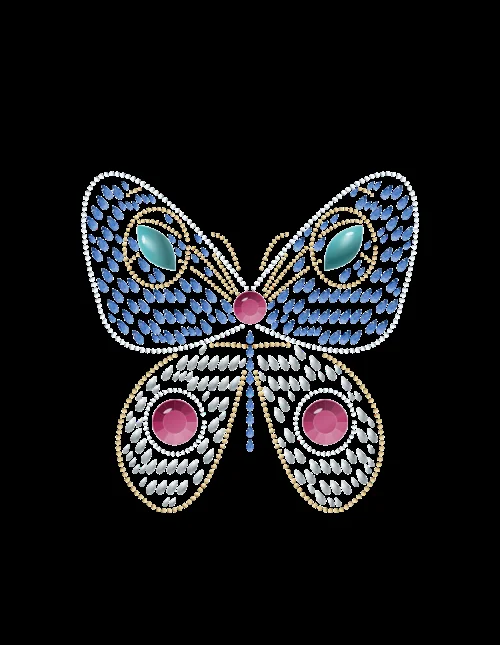
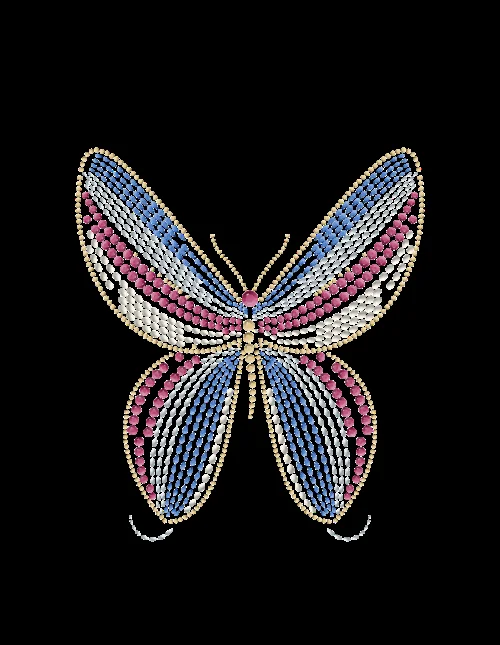
Redraw butterfly owl and peacock with flowing gem strokes and animal details

Changed region(s): [[0.15, 0.2171, 0.87, 0.8372]]

diff --git a/peacock.html b/peacock.html
@@ -6,7 +6,7 @@ const materials=[
  ['白水晶','#e1ecf5','round','圆形明亮式'],['乳白欧泊','#efe8d5','oval','椭圆弧面'],['月光石','#cad9df','pear','水滴弧面'],['蓝宝石','#164eab','step','长方阶梯式'],['黄水晶','#e5af2d','step','长方阶梯式'],['祖母绿','#087c59','ovalcut','椭圆刻面'],['粉碧玺','#d58a92','triangle','三角刻面'],['黄水晶','#e4b52e','heart','心形刻面'],['绿松石','#30a8af','marquise','马眼弧面'],['红宝石','#a91d55','round','圆形明亮式'],['蓝宝石','#205bb2','pear','水滴刻面'],['香槟水晶','#d4b36e','round','圆形明亮式']];
 const gems=[],IW=900,IH=1200;let selected=0,preview=false,zoom=1,pan={x:0,y:0},moving=false,W=0,H=0,fit=1,hover=0;
 function vertices(shape){let v=[];if(shape==='step')return[[-.72,-1],[.72,-1],[1,-.72],[1,.72],[.72,1],[-.72,1],[-1,.72],[-1,-.72]];if(shape==='triangle')return[[-1,-.65],[1,-.65],[0,1]];for(let i=0;i<48;i++){let t=i/48*Math.PI*2;if(shape==='heart')v.push([Math.pow(Math.sin(t),3),-(13*Math.cos(t)-5*Math.cos(2*t)-2*Math.cos(3*t)-Math.cos(4*t))/17]);else if(shape==='pear')v.push([Math.sin(t)*(.74+.26*Math.cos(t)),Math.cos(t)]);else if(shape==='marquise')v.push([Math.sin(t)*Math.abs(Math.sin(t)),Math.cos(t)]);else v.push([Math.sin(t),Math.cos(t)])}return v}
-const shapes=materials.map(m=>vertices(m[2]));
+materials.push(['黑曜石','#151b25','round','圆形刻面']);const shapes=materials.map(m=>vertices(m[2]));
 function path(v,s=1){const p=new Path2D();v.forEach(([x,y],i)=>i?p.lineTo(x*s,y*s):p.moveTo(x*s,y*s));p.closePath();return p}
 const paths=shapes.map(v=>path(v));
 function add(x,y,size,c,angle=0){const ratio={round:1,oval:.67,pear:.61,step:.78,ovalcut:.65,triangle:1,heart:1,marquise:.48}[materials[c][2]],rx=size*ratio/2,ry=size/2,a=angle*Math.PI/180;let ca=Math.cos(a),sa=Math.sin(a);const v=shapes[c].map(([u,v])=>[x+u*rx*ca-v*ry*sa,y+u*rx*sa+v*ry*ca]);let b=[Math.min(...v.map(p=>p[0])),Math.min(...v.map(p=>p[1])),Math.max(...v.map(p=>p[0])),Math.max(...v.map(p=>p[1]))];
@@ -16,22 +16,36 @@ function curve(points,size,c,spacing=size+2){let carry=0;for(let k=1;k<points.le
 function bez(p,n=100){let out=[];for(let i=0;i<=n;i++){let t=i/n,u=1-t;out.push([u*u*u*p[0][0]+3*u*u*t*p[1][0]+3*u*t*t*p[2][0]+t*t*t*p[3][0],u*u*u*p[0][1]+3*u*u*t*p[1][1]+3*u*t*t*p[2][1]+t*t*t*p[3][1]])}return out}
 function inside(x,y,poly){let on=false;for(let i=0,j=poly.length-1;i<poly.length;j=i++){let a=poly[i],b=poly[j];if((a[1]>y)!=(b[1]>y)&&x<(b[0]-a[0])*(y-a[1])/(b[1]-a[1])+a[0])on=!on}return on}
 
-function ellipse(cx,cy,rx,ry,n=120,angle=0){let p=[],a=angle*Math.PI/180;for(let i=0;i<=n;i++){let t=i/n*Math.PI*2,x=rx*Math.cos(t),y=ry*Math.sin(t);p.push([cx+x*Math.cos(a)-y*Math.sin(a),cy+x*Math.sin(a)+y*Math.cos(a)])}return p}
-function fillShape(poly,c,size=30,angle=0){let xs=poly.map(p=>p[0]),ys=poly.map(p=>p[1]);for(const s of [size,size*.64])for(let y=Math.min(...ys)+s/2,row=0;y<Math.max(...ys)-s/3;y+=s*.65,row++)for(let x=Math.min(...xs)+s/2+(row%2)*s*.3;x<Math.max(...xs)-s/3;x+=s*.65){if(inside(x,y,poly))add(x,y,s,c,typeof angle==='function'?angle(x,y):angle)}}
-function ring(cx,cy,rx,ry,c=0,size=8){curve(ellipse(cx,cy,rx,ry),size,c,size+2)}
 
-// Separate feather strokes radiate from the breast.
-for(let j=-5;j<=5;j++){
- let a=j*.19,tip=[450+Math.sin(a)*330,505-Math.cos(a)*275];
- let stalk=bez([[450,884],[450+Math.sin(a)*140,660],[tip[0],tip[1]+130],tip]);curve(stalk,9,11,12);
- add(tip[0],tip[1]+20,66,8,-a*180/Math.PI);add(tip[0],tip[1]-22,23,9);
- for(let k=0;k<7;k++){let y=tip[1]+85+k*55,t=(y-tip[1])/(884-tip[1]),cx=tip[0]*(1-t)+450*t;for(let sign of [-1,1])add(cx+sign*(22+12*Math.sin(t*Math.PI)),y,37,10,sign*32-a*180/Math.PI)}
+
+
+
+// Arc-length sampled strokes: gem orientation and scale follow the drawing.
+function stroke(p,c,size=15){let carry=0,total=0;const ls=p.slice(1).map((v,i)=>Math.hypot(v[0]-p[i][0],v[1]-p[i][1]));const length=ls.reduce((a,b)=>a+b,0);for(let i=1;i<p.length;i++){const a=p[i-1],b=p[i],l=ls[i-1];while(carry<l){let t=carry/l,u=(total+carry)/length,s=typeof size==='function'?size(u):size;add(a[0]+(b[0]-a[0])*t,a[1]+(b[1]-a[1])*t,s,c,-Math.atan2(b[0]-a[0],b[1]-a[1])*180/Math.PI);carry+=s+2}carry-=l;total+=l}}
+function B(p){return bez(p,160)}
+function ribbon(a,b,cols,rows=7){let A=B(a),Bv=B(b);for(let j=0;j<rows;j++){let t=j/(rows-1);stroke(A.map((v,i)=>[v[0]*(1-t)+Bv[i][0]*t,v[1]*(1-t)+Bv[i][1]*t]),cols[Math.floor(t*cols.length)%cols.length],u=>10+9*Math.sin(Math.PI*u))}}
+add(486,600,51,10,-25);add(514,594,9,0);add(525,614,26,4,75);
+
+// Reserve the animal silhouette before laying down background plumage.
+ribbon([[456,954],[351,836],[525,731],[486,620]],[[531,955],[453,834],[579,727],[486,620]],[10,10,2,8],10);
+add(486,600,51,10,-25);add(514,594,9,0);add(525,614,26,4,75);
+for(let k=0;k<5;k++){stroke(B([[478,575],[467,553],[445+k*15,551],[445+k*15,528]]),11,5);add(445+k*15,524,12,8)}
+stroke(B([[465,952],[458,1000],[455,1033],[430,1041]]),11,9);stroke(B([[503,951],[516,1004],[521,1035],[548,1040]]),11,9);
+for(let j=0;j<11;j++){let a=-1.22+j*.231,x=450+Math.sin(a)*345,y=565-Math.cos(a)*340;add(x,y+25,32,10,-a*180/Math.PI);for(let r of [25,37]){let p=[];for(let k=0;k<=100;k++){let t=k/100*Math.PI*2;p.push([x+r*.75*Math.cos(t),y+25+r*Math.sin(t)])}stroke(p,r===25?8:11,8)}}
+// An asymmetrical fan of curved feather plumes, with nested flowing eyes.
+for(let j=0;j<11;j++){let a=-1.22+j*.231,tip=[450+Math.sin(a)*345,565-Math.cos(a)*340];
+ let base=[456,941],control=[450+Math.sin(a)*210,700];
+ stroke(B([base,control,[tip[0]+58,tip[1]+150],tip]),11,7);
+ for(let side of [-1,1])for(let row=0;row<3;row++){
+ let off=side*(24+row*17);stroke(B([base,[control[0]+off*.7,control[1]],[tip[0]+off*1.6+30,tip[1]+110],[tip[0],tip[1]-27]]),row===2?11:row===1?8:5,u=>8+12*Math.sin(Math.PI*u));}
+ add(tip[0],tip[1]+15,35,10,-a*180/Math.PI);add(tip[0],tip[1]-14,14,11);
 }
-const torso=ellipse(450,832,86,170);curve(torso,8,0,10);fillShape(torso,8,29,(x,y)=>(x-450)*.2);
-let neck=bez([[451,804],[357,707],[380,570],[453,549]]);curve(neck,35,10,36);add(464,540,64,10);add(479,527,9,0);add(501,550,28,4,90);
-for(let j=-2;j<=2;j++){curve([[448,517],[430+j*20,466]],5,11,7);add(430+j*20,461,16,9)}
-curve([[421,975],[410,1052],[380,1068]],10,11,13);curve([[476,975],[484,1052],[514,1068]],10,11,13);
-const key='gallery-peacock-1';let filled=new Set;try{filled=new Set(JSON.parse(localStorage.getItem(key)||'[]').filter(id=>id>0&&id<=gems.length))}catch{}
+// Foreground swan-like neck, small head, and a long curled train.
+ribbon([[456,954],[351,836],[525,731],[486,620]],[[511,955],[432,834],[572,727],[486,620]],[10,10,2,8],7);
+add(486,611,42,10,-25);add(493,604,7,0);add(516,617,23,4,75);
+for(let k=0;k<5;k++){stroke(B([[478,589],[467,568],[445+k*15,566],[445+k*15,543]]),11,5);add(445+k*15,539,12,8)}
+for(let j=0;j<5;j++)stroke(B([[469+j*10,939],[620+j*15,1010],[332-j*18,1144],[299-j*8,1000]]),j%2?8:11,u=>8+9*Math.sin(Math.PI*u));
+const key='gallery-peacock-flow-2';let filled=new Set;try{filled=new Set(JSON.parse(localStorage.getItem(key)||'[]').filter(id=>id>0&&id<=gems.length))}catch{}
 function rgb(hex){return [1,3,5].map(i=>parseInt(hex.slice(i,i+2),16))}function tone(hex,f){return 'rgb('+rgb(hex).map(v=>Math.round(f>=0?v+(255-v)*f:v*(1+f))).join(',')+')'}
 const sprites=materials.map((m,c)=>{let b=document.createElement('canvas');b.width=b.height=160;let q=b.getContext('2d');q.translate(80,80);q.scale(69,69);q.fillStyle=m[1];q.fill(paths[c]);q.save();q.clip(paths[c]);let grad=q.createLinearGradient(-1,-1,1,1);grad.addColorStop(0,tone(m[1],.7));grad.addColorStop(.3,m[1]);grad.addColorStop(.66,tone(m[1],-.45));grad.addColorStop(1,tone(m[1],.2));q.fillStyle=grad;q.fillRect(-1,-1,2,2);
  let cab=['oval','marquise'].includes(m[2])||c===2;

diff --git a/owl.html b/owl.html
@@ -6,7 +6,7 @@ const materials=[
  ['白水晶','#e1ecf5','round','圆形明亮式'],['乳白欧泊','#efe8d5','oval','椭圆弧面'],['月光石','#cad9df','pear','水滴弧面'],['蓝宝石','#164eab','step','长方阶梯式'],['黄水晶','#e5af2d','step','长方阶梯式'],['祖母绿','#087c59','ovalcut','椭圆刻面'],['粉碧玺','#d58a92','triangle','三角刻面'],['黄水晶','#e4b52e','heart','心形刻面'],['绿松石','#30a8af','marquise','马眼弧面'],['红宝石','#a91d55','round','圆形明亮式'],['蓝宝石','#205bb2','pear','水滴刻面'],['香槟水晶','#d4b36e','round','圆形明亮式']];
 const gems=[],IW=900,IH=1200;let selected=0,preview=false,zoom=1,pan={x:0,y:0},moving=false,W=0,H=0,fit=1,hover=0;
 function vertices(shape){let v=[];if(shape==='step')return[[-.72,-1],[.72,-1],[1,-.72],[1,.72],[.72,1],[-.72,1],[-1,.72],[-1,-.72]];if(shape==='triangle')return[[-1,-.65],[1,-.65],[0,1]];for(let i=0;i<48;i++){let t=i/48*Math.PI*2;if(shape==='heart')v.push([Math.pow(Math.sin(t),3),-(13*Math.cos(t)-5*Math.cos(2*t)-2*Math.cos(3*t)-Math.cos(4*t))/17]);else if(shape==='pear')v.push([Math.sin(t)*(.74+.26*Math.cos(t)),Math.cos(t)]);else if(shape==='marquise')v.push([Math.sin(t)*Math.abs(Math.sin(t)),Math.cos(t)]);else v.push([Math.sin(t),Math.cos(t)])}return v}
-const shapes=materials.map(m=>vertices(m[2]));
+materials.push(['黑曜石','#151b25','round','圆形刻面']);const shapes=materials.map(m=>vertices(m[2]));
 function path(v,s=1){const p=new Path2D();v.forEach(([x,y],i)=>i?p.lineTo(x*s,y*s):p.moveTo(x*s,y*s));p.closePath();return p}
 const paths=shapes.map(v=>path(v));
 function add(x,y,size,c,angle=0){const ratio={round:1,oval:.67,pear:.61,step:.78,ovalcut:.65,triangle:1,heart:1,marquise:.48}[materials[c][2]],rx=size*ratio/2,ry=size/2,a=angle*Math.PI/180;let ca=Math.cos(a),sa=Math.sin(a);const v=shapes[c].map(([u,v])=>[x+u*rx*ca-v*ry*sa,y+u*rx*sa+v*ry*ca]);let b=[Math.min(...v.map(p=>p[0])),Math.min(...v.map(p=>p[1])),Math.max(...v.map(p=>p[0])),Math.max(...v.map(p=>p[1]))];
@@ -16,19 +16,32 @@ function curve(points,size,c,spacing=size+2){let carry=0;for(let k=1;k<points.le
 function bez(p,n=100){let out=[];for(let i=0;i<=n;i++){let t=i/n,u=1-t;out.push([u*u*u*p[0][0]+3*u*u*t*p[1][0]+3*u*t*t*p[2][0]+t*t*t*p[3][0],u*u*u*p[0][1]+3*u*u*t*p[1][1]+3*u*t*t*p[2][1]+t*t*t*p[3][1]])}return out}
 function inside(x,y,poly){let on=false;for(let i=0,j=poly.length-1;i<poly.length;j=i++){let a=poly[i],b=poly[j];if((a[1]>y)!=(b[1]>y)&&x<(b[0]-a[0])*(y-a[1])/(b[1]-a[1])+a[0])on=!on}return on}
 
-function ellipse(cx,cy,rx,ry,n=120,angle=0){let p=[],a=angle*Math.PI/180;for(let i=0;i<=n;i++){let t=i/n*Math.PI*2,x=rx*Math.cos(t),y=ry*Math.sin(t);p.push([cx+x*Math.cos(a)-y*Math.sin(a),cy+x*Math.sin(a)+y*Math.cos(a)])}return p}
-function fillShape(poly,c,size=30,angle=0){let xs=poly.map(p=>p[0]),ys=poly.map(p=>p[1]);for(const s of [size,size*.64])for(let y=Math.min(...ys)+s/2,row=0;y<Math.max(...ys)-s/3;y+=s*.65,row++)for(let x=Math.min(...xs)+s/2+(row%2)*s*.3;x<Math.max(...xs)-s/3;x+=s*.65){if(inside(x,y,poly))add(x,y,s,c,typeof angle==='function'?angle(x,y):angle)}}
-function ring(cx,cy,rx,ry,c=0,size=8){curve(ellipse(cx,cy,rx,ry),size,c,size+2)}
 
-const body=ellipse(450,680,235,320);curve(body,9,11,11);
-for(let sign of [-1,1]){const ear=[[450+sign*65,365],[450+sign*210,245],[450+sign*218,460]];curve([...ear,ear[0]],8,0,10);fillShape(ear,10,29,sign*25)}
-for(let sign of [-1,1]){let x=450+sign*100;add(x,490,95,5);ring(x,490,76,86,0,8);ring(x,490,91,101,11,7);fillShape(ellipse(x,490,84,95),1,27,sign*30)}
-add(450,577,45,6);add(450,676,62,7);
-for(let sign of [-1,1]){let wing=ellipse(450+sign*155,741,62,187,100,sign*-14);curve(wing,7,0,9);fillShape(wing,10,38,sign*15);for(let j=0;j<3;j++)add(450+sign*(70+j*23),1000,26,4,0)}
-fillShape(body,2,34,(x,y)=>(x-450)*.15);
-curve([[155,1035],[745,1035]],17,11,20);
-for(let k=0;k<40;k++){let t=k/39*Math.PI*1.6;add(450+Math.cos(t)*300,400+Math.sin(t)*240,8,0)}
-const key='gallery-owl-1';let filled=new Set;try{filled=new Set(JSON.parse(localStorage.getItem(key)||'[]').filter(id=>id>0&&id<=gems.length))}catch{}
+
+
+
+// Arc-length sampled strokes: gem orientation and scale follow the drawing.
+function stroke(p,c,size=15){let carry=0,total=0;const ls=p.slice(1).map((v,i)=>Math.hypot(v[0]-p[i][0],v[1]-p[i][1]));const length=ls.reduce((a,b)=>a+b,0);for(let i=1;i<p.length;i++){const a=p[i-1],b=p[i],l=ls[i-1];while(carry<l){let t=carry/l,u=(total+carry)/length,s=typeof size==='function'?size(u):size;add(a[0]+(b[0]-a[0])*t,a[1]+(b[1]-a[1])*t,s,c,-Math.atan2(b[0]-a[0],b[1]-a[1])*180/Math.PI);carry+=s+2}carry-=l;total+=l}}
+function B(p){return bez(p,160)}
+function ribbon(a,b,cols,rows=7){let A=B(a),Bv=B(b);for(let j=0;j<rows;j++){let t=j/(rows-1);stroke(A.map((v,i)=>[v[0]*(1-t)+Bv[i][0]*t,v[1]*(1-t)+Bv[i][1]*t]),cols[Math.floor(t*cols.length)%cols.length],u=>10+9*Math.sin(Math.PI*u))}}
+
+// Soft heart-shaped facial disc, sweeping folded wings, scalloped breast.
+for(const s of [-1,1]){let cx=450+s*93;add(cx,476,40,12);for(let r=38;r<85;r+=15){let p=[];for(let k=0;k<=120;k++){let a=k/120*Math.PI*2;p.push([cx+r*Math.cos(a),476+r*.95*Math.sin(a)])}stroke(p,r<55?11:1,12)}}
+add(450,565,34,4);
+for(const s of [-1,1]){const P=p=>p.map(([x,y])=>[450+s*x,y]);
+ const edge=P([[0,625],[330,460],[235,330],[155,350]]),inset=P([[0,625],[90,490],[75,372],[155,350]]);
+ stroke(B(edge),11,9);ribbon(edge,inset,[10,10,2,1,1],13);
+ const brow=P([[0,444],[76,353],[150,375],[194,447]]);stroke(B(brow),1,u=>12+10*Math.sin(Math.PI*u));
+ let cx=450+s*93;add(cx,476,46,5);add(cx-s*6,469,12,0);
+ stroke(B(P([[37,487],[68,542],[133,550],[167,476]])),11,8);
+ const outer=P([[169,537],[329,665],[249,905],[55,1020]]),inner=P([[169,537],[104,684],[109,862],[55,1020]]);
+ stroke(B(outer),11,9);ribbon(outer,inner,[10,10,8,8,2,2],14);
+ for(let k=0;k<4;k++)stroke(B(P([[151+k*8,609+k*20],[240,715],[167,848+k*15],[73,972]])),11,6);
+}
+add(450,565,34,4);for(let row=0;row<10;row++){let y=620+row*32,w=90-row*4;for(let j=-2;j<=2;j++)stroke(B([[450+j*w/2-w/4,y],[450+j*w/2-w/5,y+21],[450+j*w/2+w/5,y+21],[450+j*w/2+w/4,y]]),row%3===0?11:1,11)}
+stroke(B([[205,1053],[360,1085],[548,1012],[706,1041]]),11,u=>10+6*Math.sin(u*Math.PI));
+for(const s of [-1,1])for(let j=0;j<3;j++)add(450+s*(41+j*13),1034+j*2,20,4,10*s);
+const key='gallery-owl-flow-2';let filled=new Set;try{filled=new Set(JSON.parse(localStorage.getItem(key)||'[]').filter(id=>id>0&&id<=gems.length))}catch{}
 function rgb(hex){return [1,3,5].map(i=>parseInt(hex.slice(i,i+2),16))}function tone(hex,f){return 'rgb('+rgb(hex).map(v=>Math.round(f>=0?v+(255-v)*f:v*(1+f))).join(',')+')'}
 const sprites=materials.map((m,c)=>{let b=document.createElement('canvas');b.width=b.height=160;let q=b.getContext('2d');q.translate(80,80);q.scale(69,69);q.fillStyle=m[1];q.fill(paths[c]);q.save();q.clip(paths[c]);let grad=q.createLinearGradient(-1,-1,1,1);grad.addColorStop(0,tone(m[1],.7));grad.addColorStop(.3,m[1]);grad.addColorStop(.66,tone(m[1],-.45));grad.addColorStop(1,tone(m[1],.2));q.fillStyle=grad;q.fillRect(-1,-1,2,2);
  let cab=['oval','marquise'].includes(m[2])||c===2;

diff --git a/butterfly.html b/butterfly.html
@@ -6,7 +6,7 @@ const materials=[
  ['白水晶','#e1ecf5','round','圆形明亮式'],['乳白欧泊','#efe8d5','oval','椭圆弧面'],['月光石','#cad9df','pear','水滴弧面'],['蓝宝石','#164eab','step','长方阶梯式'],['黄水晶','#e5af2d','step','长方阶梯式'],['祖母绿','#087c59','ovalcut','椭圆刻面'],['粉碧玺','#d58a92','triangle','三角刻面'],['黄水晶','#e4b52e','heart','心形刻面'],['绿松石','#30a8af','marquise','马眼弧面'],['红宝石','#a91d55','round','圆形明亮式'],['蓝宝石','#205bb2','pear','水滴刻面'],['香槟水晶','#d4b36e','round','圆形明亮式']];
 const gems=[],IW=900,IH=1200;let selected=0,preview=false,zoom=1,pan={x:0,y:0},moving=false,W=0,H=0,fit=1,hover=0;
 function vertices(shape){let v=[];if(shape==='step')return[[-.72,-1],[.72,-1],[1,-.72],[1,.72],[.72,1],[-.72,1],[-1,.72],[-1,-.72]];if(shape==='triangle')return[[-1,-.65],[1,-.65],[0,1]];for(let i=0;i<48;i++){let t=i/48*Math.PI*2;if(shape==='heart')v.push([Math.pow(Math.sin(t),3),-(13*Math.cos(t)-5*Math.cos(2*t)-2*Math.cos(3*t)-Math.cos(4*t))/17]);else if(shape==='pear')v.push([Math.sin(t)*(.74+.26*Math.cos(t)),Math.cos(t)]);else if(shape==='marquise')v.push([Math.sin(t)*Math.abs(Math.sin(t)),Math.cos(t)]);else v.push([Math.sin(t),Math.cos(t)])}return v}
-const shapes=materials.map(m=>vertices(m[2]));
+materials.push(['黑曜石','#151b25','round','圆形刻面']);const shapes=materials.map(m=>vertices(m[2]));
 function path(v,s=1){const p=new Path2D();v.forEach(([x,y],i)=>i?p.lineTo(x*s,y*s):p.moveTo(x*s,y*s));p.closePath();return p}
 const paths=shapes.map(v=>path(v));
 function add(x,y,size,c,angle=0){const ratio={round:1,oval:.67,pear:.61,step:.78,ovalcut:.65,triangle:1,heart:1,marquise:.48}[materials[c][2]],rx=size*ratio/2,ry=size/2,a=angle*Math.PI/180;let ca=Math.cos(a),sa=Math.sin(a);const v=shapes[c].map(([u,v])=>[x+u*rx*ca-v*ry*sa,y+u*rx*sa+v*ry*ca]);let b=[Math.min(...v.map(p=>p[0])),Math.min(...v.map(p=>p[1])),Math.max(...v.map(p=>p[0])),Math.max(...v.map(p=>p[1]))];
@@ -16,22 +16,28 @@ function curve(points,size,c,spacing=size+2){let carry=0;for(let k=1;k<points.le
 function bez(p,n=100){let out=[];for(let i=0;i<=n;i++){let t=i/n,u=1-t;out.push([u*u*u*p[0][0]+3*u*u*t*p[1][0]+3*u*t*t*p[2][0]+t*t*t*p[3][0],u*u*u*p[0][1]+3*u*u*t*p[1][1]+3*u*t*t*p[2][1]+t*t*t*p[3][1]])}return out}
 function inside(x,y,poly){let on=false;for(let i=0,j=poly.length-1;i<poly.length;j=i++){let a=poly[i],b=poly[j];if((a[1]>y)!=(b[1]>y)&&x<(b[0]-a[0])*(y-a[1])/(b[1]-a[1])+a[0])on=!on}return on}
 
-function ellipse(cx,cy,rx,ry,n=120,angle=0){let p=[],a=angle*Math.PI/180;for(let i=0;i<=n;i++){let t=i/n*Math.PI*2,x=rx*Math.cos(t),y=ry*Math.sin(t);p.push([cx+x*Math.cos(a)-y*Math.sin(a),cy+x*Math.sin(a)+y*Math.cos(a)])}return p}
-function fillShape(poly,c,size=30,angle=0){let xs=poly.map(p=>p[0]),ys=poly.map(p=>p[1]);for(const s of [size,size*.64])for(let y=Math.min(...ys)+s/2,row=0;y<Math.max(...ys)-s/3;y+=s*.65,row++)for(let x=Math.min(...xs)+s/2+(row%2)*s*.3;x<Math.max(...xs)-s/3;x+=s*.65){if(inside(x,y,poly))add(x,y,s,c,typeof angle==='function'?angle(x,y):angle)}}
-function ring(cx,cy,rx,ry,c=0,size=8){curve(ellipse(cx,cy,rx,ry),size,c,size+2)}
 
-add(450,570,65,9);for(let y=630;y<855;y+=27)add(450,y,25,10);
-for(let sign of [-1,1]){
- let upper=bez([[450,540],[sign<0?150:750,150],[sign<0?65:835,300],[sign<0?144:756,550]]).concat(bez([[sign<0?144:756,550],[sign<0?170:730,710],[sign<0?330:570,660],[450,600]]));
- let lower=bez([[450,650],[sign<0?215:685,600],[sign<0?96:804,882],[sign<0?265:635,975]]).concat(bez([[sign<0?265:635,975],[sign<0?367:533,1005],[sign<0?418:482,792],[450,650]]));
- curve([...upper,upper[0]],9,0,11);curve([...lower,lower[0]],9,11,11);
- add(450+sign*188,450,117,8,sign*40);ring(450+sign*188,450,64,78,11,8);
- add(450+sign*151,800,90,9);ring(450+sign*151,800,59,64,0,8);
- for(let j=0;j<3;j++)curve(bez([[450,590],[450+sign*80,430+j*45],[450+sign*195,280+j*60],[450+sign*250,350+j*70]]),7,11,9);
- fillShape(upper,10,32,(x,y)=>sign*35);fillShape(lower,2,32,sign*-30);
- curve(bez([[450+sign*13,530],[450+sign*35,440],[450+sign*54,419],[450+sign*82,424]]),8,11,10);add(450+sign*82,424,20,9);
+
+
+
+// Arc-length sampled strokes: gem orientation and scale follow the drawing.
+function stroke(p,c,size=15){let carry=0,total=0;const ls=p.slice(1).map((v,i)=>Math.hypot(v[0]-p[i][0],v[1]-p[i][1]));const length=ls.reduce((a,b)=>a+b,0);for(let i=1;i<p.length;i++){const a=p[i-1],b=p[i],l=ls[i-1];while(carry<l){let t=carry/l,u=(total+carry)/length,s=typeof size==='function'?size(u):size;add(a[0]+(b[0]-a[0])*t,a[1]+(b[1]-a[1])*t,s,c,-Math.atan2(b[0]-a[0],b[1]-a[1])*180/Math.PI);carry+=s+2}carry-=l;total+=l}}
+function B(p){return bez(p,160)}
+function ribbon(a,b,cols,rows=7){let A=B(a),Bv=B(b);for(let j=0;j<rows;j++){let t=j/(rows-1);stroke(A.map((v,i)=>[v[0]*(1-t)+Bv[i][0]*t,v[1]*(1-t)+Bv[i][1]*t]),cols[Math.floor(t*cols.length)%cols.length],u=>10+9*Math.sin(Math.PI*u))}}
+
+add(450,552,32,9);stroke(B([[450,580],[438,655],[467,729],[450,790]]),11,u=>24-16*u);
+for(const s of [-1,1]){const P=p=>p.map(([x,y])=>[450+s*x,y]);
+ const top=P([[8,570],[125,440],[320,140],[340,300]]),bottom=P([[12,630],[170,730],[380,550],[340,300]]);
+ stroke(B(top),11,9);stroke(B(bottom),11,9);
+ ribbon(top,bottom,[10,10,2,2,9,9,1,1],19);
+ const low=P([[12,647],[220,610],[340,810],[170,1000]]),inner=P([[14,660],[35,740],[45,1005],[170,1000]]);
+ stroke(B(low),11,8);stroke(B(inner),11,8);ribbon(low,inner,[9,9,2,2,10,10,1],13);
+ for(let k=0;k<3;k++)stroke(B(P([[24,605+k*19],[95,535+k*35],[228,435+k*45],[320-k*14,345+k*43]])),11,7);
+ stroke(B(P([[7,541],[26,480],[79,460],[75,421]])),11,7);add(450+s*75,421,14,1);
+ stroke(B(P([[150,934],[115,1040],[230,1070],[241,987]])),2,u=>7+9*Math.sin(Math.PI*u));
 }
-const key='gallery-butterfly-1';let filled=new Set;try{filled=new Set(JSON.parse(localStorage.getItem(key)||'[]').filter(id=>id>0&&id<=gems.length))}catch{}
+add(450,552,32,9);stroke(B([[450,580],[438,655],[467,729],[450,790]]),11,u=>24-16*u);
+const key='gallery-butterfly-flow-2';let filled=new Set;try{filled=new Set(JSON.parse(localStorage.getItem(key)||'[]').filter(id=>id>0&&id<=gems.length))}catch{}
 function rgb(hex){return [1,3,5].map(i=>parseInt(hex.slice(i,i+2),16))}function tone(hex,f){return 'rgb('+rgb(hex).map(v=>Math.round(f>=0?v+(255-v)*f:v*(1+f))).join(',')+')'}
 const sprites=materials.map((m,c)=>{let b=document.createElement('canvas');b.width=b.height=160;let q=b.getContext('2d');q.translate(80,80);q.scale(69,69);q.fillStyle=m[1];q.fill(paths[c]);q.save();q.clip(paths[c]);let grad=q.createLinearGradient(-1,-1,1,1);grad.addColorStop(0,tone(m[1],.7));grad.addColorStop(.3,m[1]);grad.addColorStop(.66,tone(m[1],-.45));grad.addColorStop(1,tone(m[1],.2));q.fillStyle=grad;q.fillRect(-1,-1,2,2);
  let cab=['oval','marquise'].includes(m[2])||c===2;
